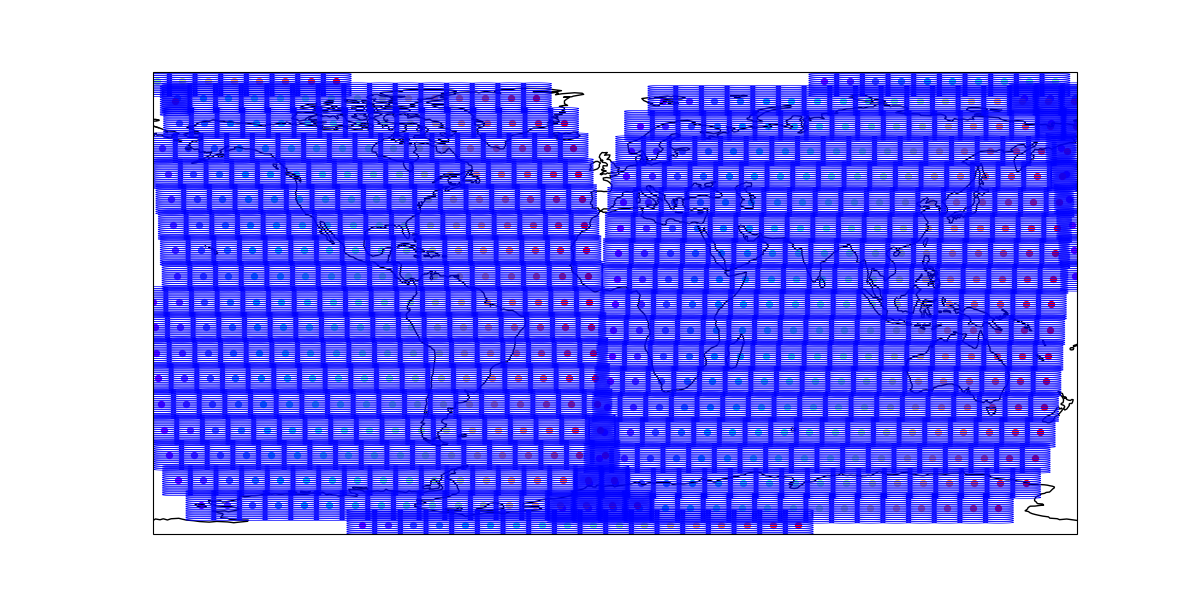
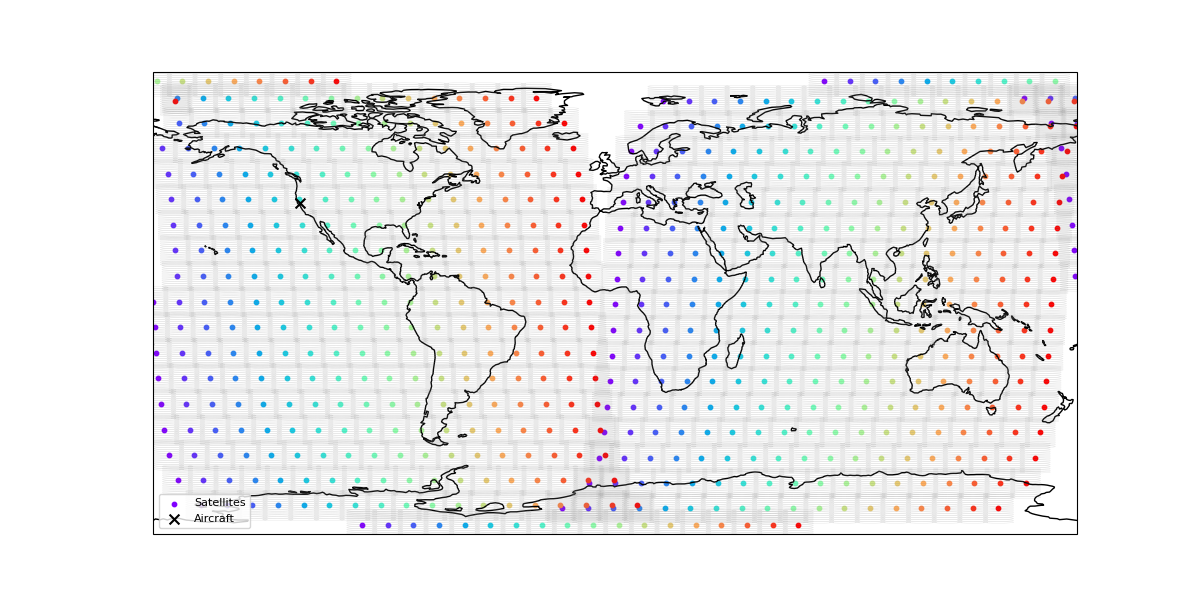
integrated changes

diff --git a/LEOEnvironment.py b/LEOEnvironment.py
@@ -639,10 +639,10 @@ class Aircraft:
         demand = self.demand  # in MB (as per your get_demand_at_time)
 
         # Get available capacity from the current beam (in Gbps, convert to MB for deltaT)
-        if self.beam is not None:
+        if self.connected_beam is not None:
             # Convert beam capacity from Gbps to MB for this timestep
             # 1 Gbps = 125 MB/s
-            beam_capacity_MB = self.beam.capacity * 125 * deltaT  # MB for this timestep
+            beam_capacity_MB = self.connected_beam.capacity * 125 * deltaT  # MB for this timestep
         else:
             beam_capacity_MB = 0
 
@@ -664,11 +664,30 @@ class Aircraft:
         """
         # Convert speed from km/h to degrees per interval
         distance_km_per_interval = (self.speed_kmph / 3600) * self.update_interval
+            # Convert distance in km to angular distance in radians on Earth's surface
+        angular_distance_rad = distance_km_per_interval * 1000 / Re # Convert km to meters for Re
+
+        # Current position in radians
+        lat_rad = math.radians(self.latitude)
+        lon_rad = math.radians(self.longitude)
+
+        # Calculate new position using spherical trigonometry (Haversine formula for destination point)
+        new_lat_rad = math.asin(math.sin(lat_rad) * math.cos(angular_distance_rad) +
+                                math.cos(lat_rad) * math.sin(angular_distance_rad) * math.cos(self.direction_rad))
         
+        new_lon_rad = lon_rad + math.atan2(math.sin(self.direction_rad) * math.sin(angular_distance_rad) * math.cos(lat_rad),
+                                           math.cos(angular_distance_rad) - math.sin(lat_rad) * math.sin(new_lat_rad))
+
+        self.latitude = math.degrees(new_lat_rad)
+        self.longitude = math.degrees(new_lon_rad)
+        
+        # Ensure longitude stays within -180 to +180
+        self.longitude = (self.longitude + 180) % 360 - 180   
+
     def move_and_connect_aircraft(self):
 
         # 1. Move the aircraft
-        self._update_position()
+        self._update_position() # we wont move the aircraft for now to simplify the simulation
 
         # 2. Find the best beam using the efficient KDTree scan
         best_candidate_sat, best_candidate_beam, best_snr = self.scan_nearby_fast(earth_instance)
@@ -707,16 +726,16 @@ class Aircraft:
             self.current_latency = self._calculate_latency()
             print(f"Time {self.env.now:.2f}: Aircraft {self.id} remains connected to {self.connected_beam.id}. SNR: {self.current_snr:.2f} dB, Latency: {self.current_latency*1e3:.2f} ms")      
 
-     def _calculate_3d_distance(self, satellite):
+    def _calculate_3d_distance(self, satellite):
         """Calculates the 3D slant range from aircraft to satellite."""
         # Calculate 2D distance on Earth's surface
         dist_2d_km = geopy.distance.geodesic((self.latitude, self.longitude), 
-                                                (math.degrees(satellite.latitude), 
-                                                math.degrees(satellite.longitude))).km
-        
+                                            (math.degrees(satellite.latitude), 
+                                            math.degrees(satellite.longitude))).km
+
         # Altitude difference
         altitude_diff_m = (satellite.h - self.height) # Satellite altitude - aircraft height
-        
+
         # Total 3D distance using Pythagorean theorem (approximation)
         total_distance_m = math.sqrt((dist_2d_km * 1000)**2 + (altitude_diff_m)**2)
         return total_distance_m
@@ -733,51 +752,32 @@ class Aircraft:
         return 0           
             
 # A single cell on earth
-class Cell:
-    def __init__(self, total_x, total_y, cell_x, cell_y, users, Re=6378e3, f=20e9, bw=200e6, noise_power=1 / (1e11)):
-        # X and Y coordinates of the cell on the dataset map
-        self.map_x = cell_x
-        self.map_y = cell_y
-        # Latitude and longitude of the cell as per dataset map
-        self.latitude = math.pi * (0.5 - cell_y / total_y)
-        self.longitude = (cell_x / total_x - 0.5) * 2 * math.pi
-        if self.latitude < -5 or self.longitude < -5:
-            print("less than 0")
-            print(self.longitude, self.latitude)
-            print(cell_x, cell_y)
-        # Actual area the cell covers on earth (scaled for)
-        self.area = 4 * math.pi * Re * Re * math.cos(self.latitude) / (total_x * total_y)
-        # X,Y,Z coordinates to the center of the cell (assumed)
-        self.x = Re * math.cos(self.latitude) * math.cos(self.longitude)
-        self.y = Re * math.cos(self.latitude) * math.sin(self.longitude)
-        self.z = Re * math.sin(self.latitude)
+# not sure we need this class anymore, as we are using beams instead of cells
+# class Cell:
+#     def __init__(self, total_x, total_y, cell_x, cell_y, users, Re=6378e3, f=20e9, bw=200e6, noise_power=1 / (1e11)):
+#         # X and Y coordinates of the cell on the dataset map
+#         self.map_x = cell_x
+#         self.map_y = cell_y
+#         # Latitude and longitude of the cell as per dataset map
+#         self.latitude = math.pi * (0.5 - cell_y / total_y)
+#         self.longitude = (cell_x / total_x - 0.5) * 2 * math.pi
+#         if self.latitude < -5 or self.longitude < -5:
+#             print("less than 0")
+#             print(self.longitude, self.latitude)
+#             print(cell_x, cell_y)
+#         # Actual area the cell covers on earth (scaled for)
+#         self.area = 4 * math.pi * Re * Re * math.cos(self.latitude) / (total_x * total_y)
+#         # X,Y,Z coordinates to the center of the cell (assumed)
+#         self.x = Re * math.cos(self.latitude) * math.cos(self.longitude)
+#         self.y = Re * math.cos(self.latitude) * math.sin(self.longitude)
+#         self.z = Re * math.sin(self.latitude)
 
-        self.users = users  # Population in the cell
-        self.f = f  # Frequency used by the cell
-        self.bw = bw  # Bandwidth used for the cell
-        self.noise_power = noise_power  # Noise power for the cell
-        self.rejected = True  # Usefulfor applications process to show if the cell is rejected or accepted
-        self.gateway = None  # (groundstation, distance)
-
-        # Convert distance in km to angular distance in radians on Earth's surface
-        angular_distance_rad = distance_km_per_interval * 1000 / Re # Convert km to meters for Re
-
-        # Current position in radians
-        lat_rad = math.radians(self.latitude)
-        lon_rad = math.radians(self.longitude)
-
-        # Calculate new position using spherical trigonometry (Haversine formula for destination point)
-        new_lat_rad = math.asin(math.sin(lat_rad) * math.cos(angular_distance_rad) +
-                                math.cos(lat_rad) * math.sin(angular_distance_rad) * math.cos(self.direction_rad))
-        
-        new_lon_rad = lon_rad + math.atan2(math.sin(self.direction_rad) * math.sin(angular_distance_rad) * math.cos(lat_rad),
-                                           math.cos(angular_distance_rad) - math.sin(lat_rad) * math.sin(new_lat_rad))
-
-        self.latitude = math.degrees(new_lat_rad)
-        self.longitude = math.degrees(new_lon_rad)
-        
-        # Ensure longitude stays within -180 to +180
-        self.longitude = (self.longitude + 180) % 360 - 180
+#         self.users = users  # Population in the cell
+#         self.f = f  # Frequency used by the cell
+#         self.bw = bw  # Bandwidth used for the cell
+#         self.noise_power = noise_power  # Noise power for the cell
+#         self.rejected = True  # Usefulfor applications process to show if the cell is rejected or accepted
+#         self.gateway = None  # (groundstation, distance)
 
 
 # Earth consisting of cells
@@ -854,12 +854,13 @@ class Earth:
         """
         while True:
             for ac in self.aircraft:
-                scan_results = ac.scan_nearby_fast(self, threshold_km=threshold_km)
+                #scan_results = ac.scan_nearby_fast(self, threshold_km=threshold_km)
+                ac.move_and_connect_aircraft()  # Move aircraft and manage connections
                 ratio, allocated, demand, beam_capacity_MB = ac.allocation_ratio(deltaT)
-                print(f"\n[SimTime {env.now}] Aircraft {ac.ID} scan:")
-                for result in scan_results:
-                    if result['type'] == 'beam':
-                        print(f"Beam {result['beam_id']} on Satellite {result['sat_id']} | Distance: {result['distance_km']:.2f} km | SNR: {result['snr_db']:.2f} dB")
+                print(f"\n[SimTime {env.now}] Aircraft {ac.id} scan:")
+                # for result in scan_results:
+                #     if result['type'] == 'beam':
+                #         print(f"Beam {result['beam_id']} on Satellite {result['sat_id']} | Distance: {result['distance_km']:.2f} km | SNR: {result['snr_db']:.2f} dB")
                 print(f"Allocation ratio: {ratio:.2f} | Allocated: {allocated:.2f} MB | Demand: {demand:.2f} MB | Beam cap: {beam_capacity_MB:.2f} MB")
             yield env.timeout(deltaT)             
 
@@ -1128,10 +1129,10 @@ def main():
         Image.new('L', (500, 250)).save(img_path)
 
 
-    earth_instance, aircraft1 = initialize(env, img_path, inputParams, movementTime)
+    earth_instance = initialize(env, img_path, inputParams, movementTime)
 
     # --- Aircraft Simulation ---
-    all_aircrafts = [aircraft1] # List of all aircrafts to pass to plotting function
+    all_aircrafts = earth_instance.aircraft # List of all aircrafts to pass to plotting function
 
     # Start plotting process to save map images at intervals
     # plotAircrafts is set to True to show aircraft on the map
@@ -1142,15 +1143,16 @@ def main():
     env.run(simulationTimelimit)
     timeToSim = time.time() - startTime
 
-    print("\n\n--- Simulation Summary ---")
-    print(f"Total simulation run time: {timeToSim:.2f} seconds")
-    print(f"Aircraft '{aircraft1.id}' total handovers: {aircraft1.handover_count}")
-    if aircraft1.connected_beam:
-        print(f"Aircraft '{aircraft1.id}' final connected beam: {aircraft1.connected_beam.id}")
-        print(f"Aircraft '{aircraft1.id}' final SNR: {aircraft1.current_snr:.2f} dB")
-        print(f"Aircraft '{aircraft1.id}' final Latency: {aircraft1.current_latency*1e3:.2f} ms")
-    else:
-        print(f"Aircraft '{aircraft1.id}' ended the simulation with no connection.")
+    for aircraft in all_aircrafts:
+        print("\n\n--- Simulation Summary ---")
+        print(f"Total simulation run time: {timeToSim:.2f} seconds")
+        print(f"Aircraft '{aircraft.id}' total handovers: {aircraft.handover_count}")
+        if aircraft.connected_beam:
+            print(f"Aircraft '{aircraft.id}' final connected beam: {aircraft.connected_beam.id}")
+            print(f"Aircraft '{aircraft.id}' final SNR: {aircraft.current_snr:.2f} dB")
+            print(f"Aircraft '{aircraft.id}' final Latency: {aircraft.current_latency*1e3:.2f} ms")
+        else:
+            print(f"Aircraft '{aircraft.id}' ended the simulation with no connection.")
 
 
 if __name__ == '__main__':
